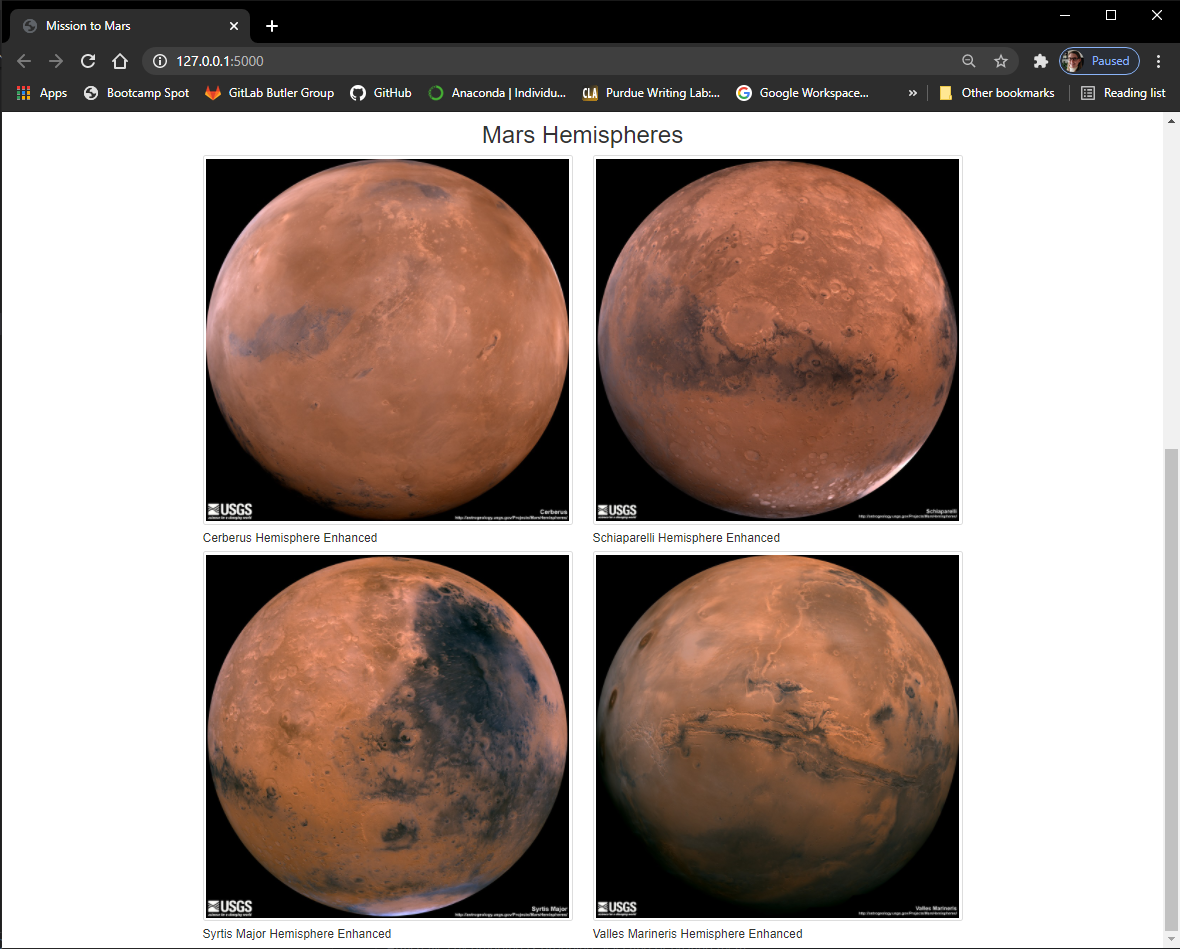
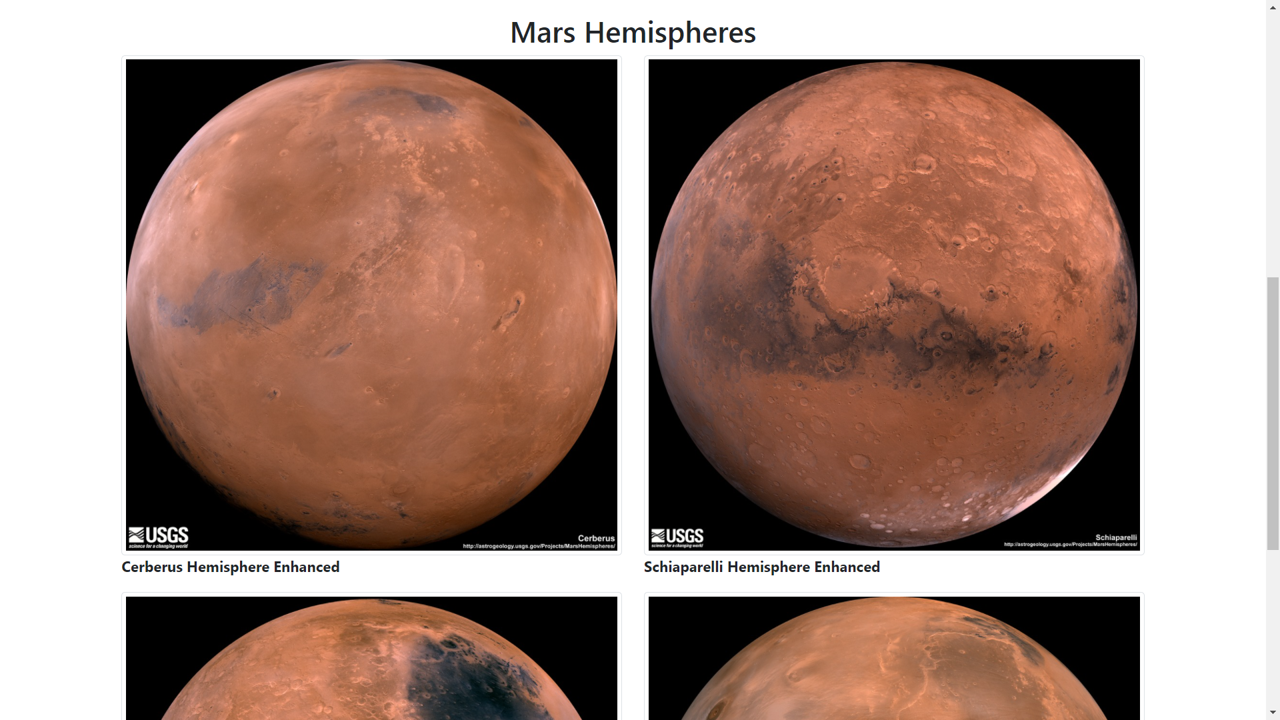
updated html to most resent version of bootstrap and updated images of html for README.md and updated README.md.

diff --git a/templates/index.html b/templates/index.html
@@ -6,33 +6,34 @@
   <meta name="viewport" content="width=device-width, initial-scale=1.0">
   <meta http-equiv="X-UA-Compatible" content="ie=edge">
   <title>Mission to Mars</title>
-  <link rel="stylesheet" href="https://maxcdn.bootstrapcdn.com/bootstrap/3.3.7/css/bootstrap.min.css">
+  <!-- <link rel="stylesheet" href="https://maxcdn.bootstrapcdn.com/bootstrap/3.3.7/css/bootstrap.min.css"> -->
+  <link href="https://cdn.jsdelivr.net/npm/bootstrap@5.0.1/dist/css/bootstrap.min.css" rel="stylesheet" integrity="sha384-+0n0xVW2eSR5OomGNYDnhzAbDsOXxcvSN1TPprVMTNDbiYZCxYbOOl7+AMvyTG2x" crossorigin="anonymous">
+
 </head>
 
 <body>
-  <div class="container-fluid">
-    <div class="jumbotron text-center">
+  <div class="container-md p-3 mb-2 text-center bg-light">
+    <!-- <div class="jumbotron text-center"> -->
       <h1>Mission to Mars</h1>
       <p><a class="btn btn-primary btn-lg" href="/scrape" role="button">Scrape New Data</a></p>
-    </div>
+    <!-- </div> -->
   </div>
-  <div class="container">
+  <div class="container-md">
     <div class="row">
       <div class="col-md-12">
-        <h1>Latest Mars News</h1>
-        <h4><strong>{{ space.latest_news_title }}</strong></h3>
-        <h5>{{ space.latest_news_paragraph }}</h4>
+        <h2>Latest Mars News</h2>
+        <p><strong>{{ space.latest_news_title }}</strong><br>{{ space.latest_news_paragraph }}</p>
       </div>
     </div>
   </div>
-  <div class="container">
+  <div class="container-md">
     <div class="row">
       <div class="col-md-8">
-        <h1 class="text-left">Featured Mars Image</h1>
-        <img src="{{ space.featured_image }}">
+        <h2 class="text-left">Featured Mars Image</h2>
+        <img src="{{ space.featured_image }}" class="img-fluid">
       </div>
       <div class="col-md-4">
-        <h1 class="text-left">Mars Facts</h1>
+        <h2 class="text-left">Mars Facts</h2>
         {% for table in space.html_table %}
         {{ table|safe }}
 
@@ -42,20 +43,22 @@
   </div>
   <div class="container">
     <div class="row">
-      <h1 class="text-center">Mars Hemispheres</h1>
+      <h2 class="text-center">Mars Hemispheres</h2>
       {% for image in space.hemisphere_image_urls %}
       <div class="col-md-6">
         <img src="{{ image.img_url }}" class="img-thumbnail" alt="Hemisphere">
-        <h4>{{ image.title }}</h4>
+        <p><strong>{{ image.title }}</strong></p>
       </div>
       {% endfor %}
     </div>
   </div>
 
-  <!-- Bootstrap's JS Bundle plugins and Popper
-  <script src="https://cdn.jsdelivr.net/npm/bootstrap@5.0.0-beta3/dist/js/bootstrap.bundle.min.js"
+  <!-- Bootstrap's JS Bundle plugins and Popper -->
+  <!-- <script src="https://cdn.jsdelivr.net/npm/bootstrap@5.0.0-beta3/dist/js/bootstrap.bundle.min.js"
     integrity="sha384-JEW9xMcG8R+pH31jmWH6WWP0WintQrMb4s7ZOdauHnUtxwoG2vI5DkLtS3qm9Ekf"
-    crossorigin="anonymous"></script> -->
+    crossorigin="anonymous"></script>  -->
+    <script src="https://cdn.jsdelivr.net/npm/bootstrap@5.0.1/dist/js/bootstrap.bundle.min.js" integrity="sha384-gtEjrD/SeCtmISkJkNUaaKMoLD0//ElJ19smozuHV6z3Iehds+3Ulb9Bn9Plx0x4" crossorigin="anonymous"></script>
+
 </body>
 
 </html>

diff --git a/README.md b/README.md
@@ -1,10 +1,31 @@
-## Mission to Mars
-This challenge entails scraping data from three different websites and creating a flask app to display this data in an html file. 
-1. I created a Jupyter notebook to complete all web scraping and analysis tasks. I marked down details on each step in the `mission_to_mars.ipynb` included in this repository. Where Splinter was used to navigate the sites when needed and BeautifulSoup was used to help find and parse out the necessary data. 
-2. I used MongoDB with Flask templating to create a new HTML page that displays all the information that was scraped from the various urls. I converted the Jupyter notebook into a Python script call `scrape_mars.py` with a function called `scrape` that will excute all the scraping code and return one Python dictioary containing all of the scraped data. 
-3. I created a route called `/scrape` that will import `scrape_mars.py` script and call the `scrape` function.
-4. Stored the return value in Mongo as a Python dictionary. 
-5. I created a root route `/` that will query the Mongo database and pass the scraped data into and HTML template to display the data. 
-6. Finally, I took screenshots of my final application: 
-![image](https://user-images.githubusercontent.com/74943070/112769967-21642180-8ff2-11eb-92a0-8e1f5e7c4a21.png)
-![image](https://user-images.githubusercontent.com/74943070/112770041-9899b580-8ff2-11eb-815d-398b1ded0494.png)
+# Mission to Mars
+This challenge entails scraping data about Mars from three different websites, adding that data to a database and creating a flask app to display this data in an html file. 
+
+## Tools:
+Jupyter Notebook<br>
+Python<br>
+MongoDB<br>
+Flask<br>
+HTML<br>
+
+# Process 
+
+1. Jupyter notebook was used to complete all web scraping and analysis tasks. See details in markdown on each step in the [mission_to_mars.ipynb](mission_to_mars.ipynb) included in this repository. Splinter was used to navigate the sites when needed and BeautifulSoup was used to help find and parse out the necessary data. 
+2. MongoDB with Flask templating were used to create a new HTML page that displays all the information that was scraped from the various URLs. 
+3. The Jupyter Notebook was converted into a Python script call [scrape_mars.py](scrape_mars.py) with a function called "scrape" that will execute the scraping code and return one Python dictionary containing all of the scraped data. 
+3. I created a route called "/scrape" that will import [scrape_mars.py](scrape_mars.py) script and call the "scrape" function.
+4. The return value was saved in a Mongo database. 
+5. I created a root route "/" that will query the Mongo database and pass the scraped data into and HTML template to be displayed. 
+6. The final HTML looks like this:
+![image](images/mars_app_screenshot1.png)
+![image](images/mars_app_screenshot2.png)
+
+## Check it out yourself
+1. Clone this repository to your computer. 
+2. Use Visual Studio Code to open the repository on your computer.
+3. Open [app.py](app.py) and run. Hold ctrl + click link in terminal to open the page. Click "Scrape New Data" button in web browser to collect most resent data on Mars. 
+
+# Contact Information: 
+### Hope Neely
+Email: [hope.neely@gmail.com](hope.neely@gmail.com)<br>
+LinkedIn: [https://www.linkedin.com/in/hopeneely/](https://www.linkedin.com/in/hopeneely/)
